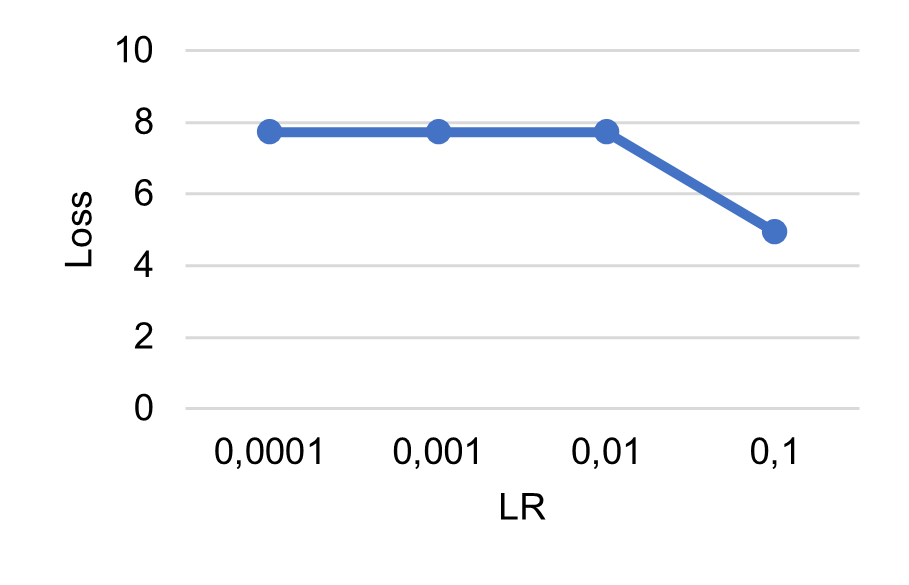
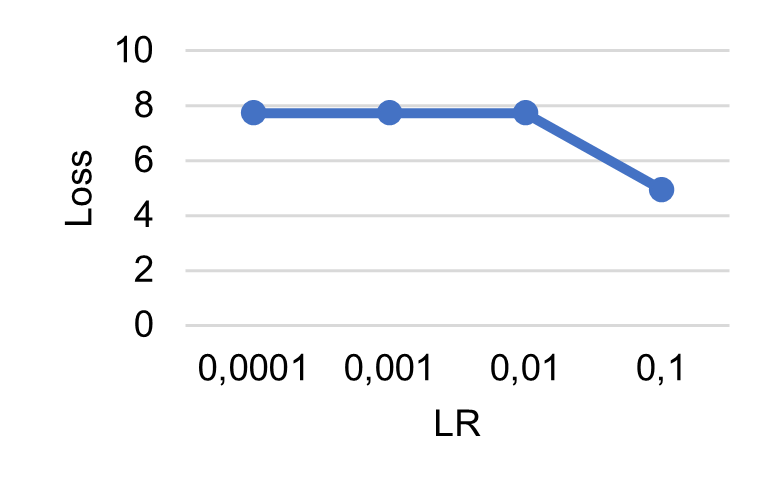
Parcial - ajuste imagens

diff --git a/capitulos/metodologia/selecao_modelos.tex b/capitulos/metodologia/selecao_modelos.tex
@@ -45,23 +45,23 @@ Para o modelo \textit{Encoder-Decoder} com \acrshort{lstm} utilizamos ...
     \centering
     \caption{\textmd{???.}}
     \subcaptionbox{\label{subfig:otim-encdec-lstm-lr}}{
-        \includegraphics[width=0.30\textwidth]{capitulos/metodologia/imagens/otim_encdec_lstm_lr}
+        \includegraphics[width=5.0cm]{capitulos/metodologia/imagens/otim_encdec_lstm_lr}
     }%
-    % \hfill
+    \hfill
     \subcaptionbox{\label{subfig:otim-encdec-lstm-dropout}}{
-        \includegraphics[width=0.30\textwidth]{capitulos/metodologia/imagens/otim_encdec_lstm_dropout}
+        \includegraphics[width=5.0cm]{capitulos/metodologia/imagens/otim_encdec_lstm_dropout}
     }%
-    % \hfill
+    \hfill
     \subcaptionbox{\label{subfig:otim-encdec-lstm-layers}}{
-        \includegraphics[width=0.30\textwidth]{capitulos/metodologia/imagens/otim_encdec_lstm_layers}
+        \includegraphics[width=5.0cm]{capitulos/metodologia/imagens/otim_encdec_lstm_layers}
     }%
     \hfill
     \subcaptionbox{\label{subfig:otim-encdec-lstm-hidden}}{
-        \includegraphics[width=0.30\textwidth]{capitulos/metodologia/imagens/otim_encdec_lstm_hidden_size}
+        \includegraphics[width=5.0cm]{capitulos/metodologia/imagens/otim_encdec_lstm_hidden_size}
     }%
     % \hfill
     \subcaptionbox{\label{subfig:otim-encdec-lstm-emb}}{
-        \includegraphics[width=0.30\textwidth]{capitulos/metodologia/imagens/otim_encdec_lstm_emb_size}
+        \includegraphics[width=5.0cm]{capitulos/metodologia/imagens/otim_encdec_lstm_emb_size}
     }%
     \nomefonte{}
     \label{fig:otim-encdec-lstm}
